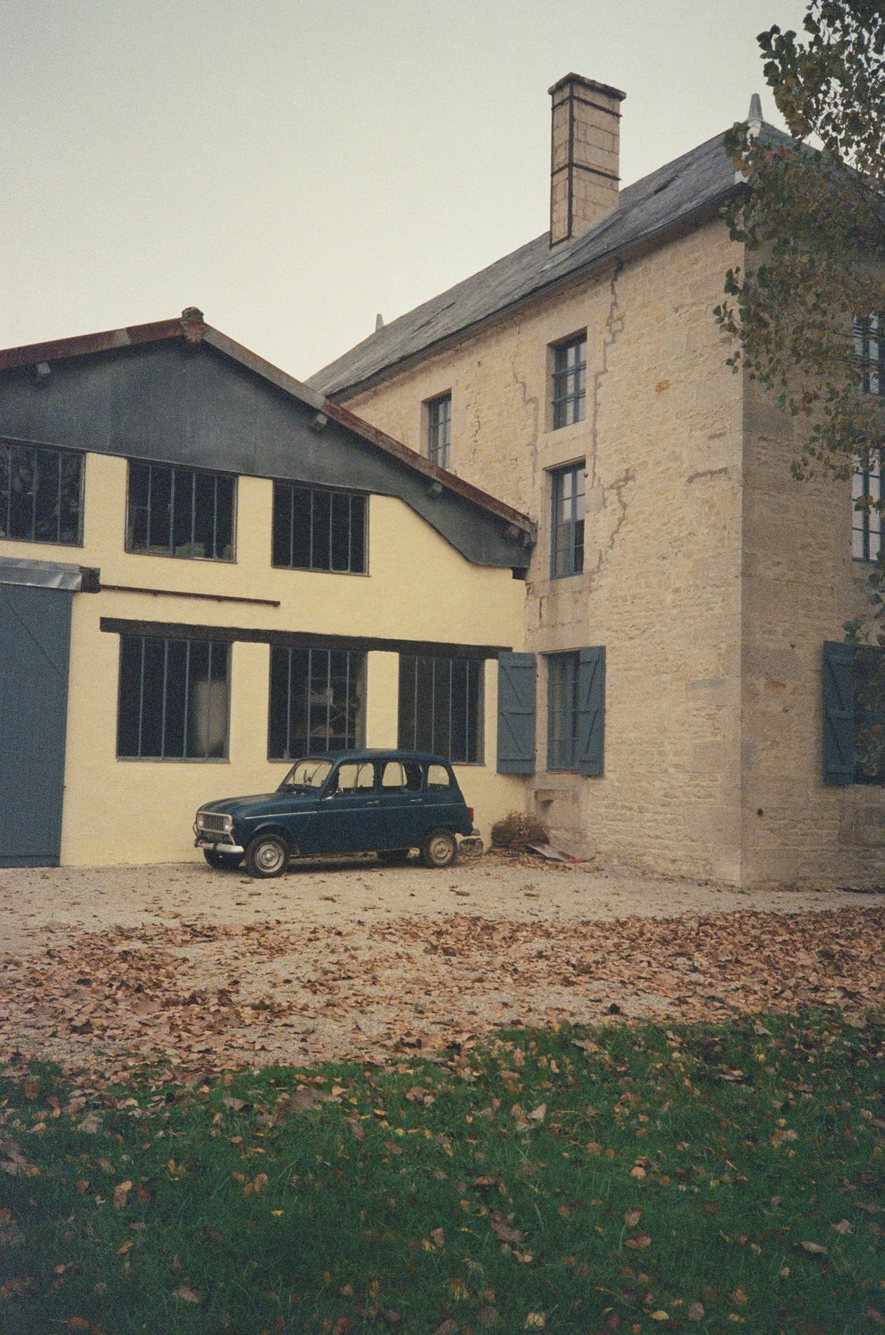
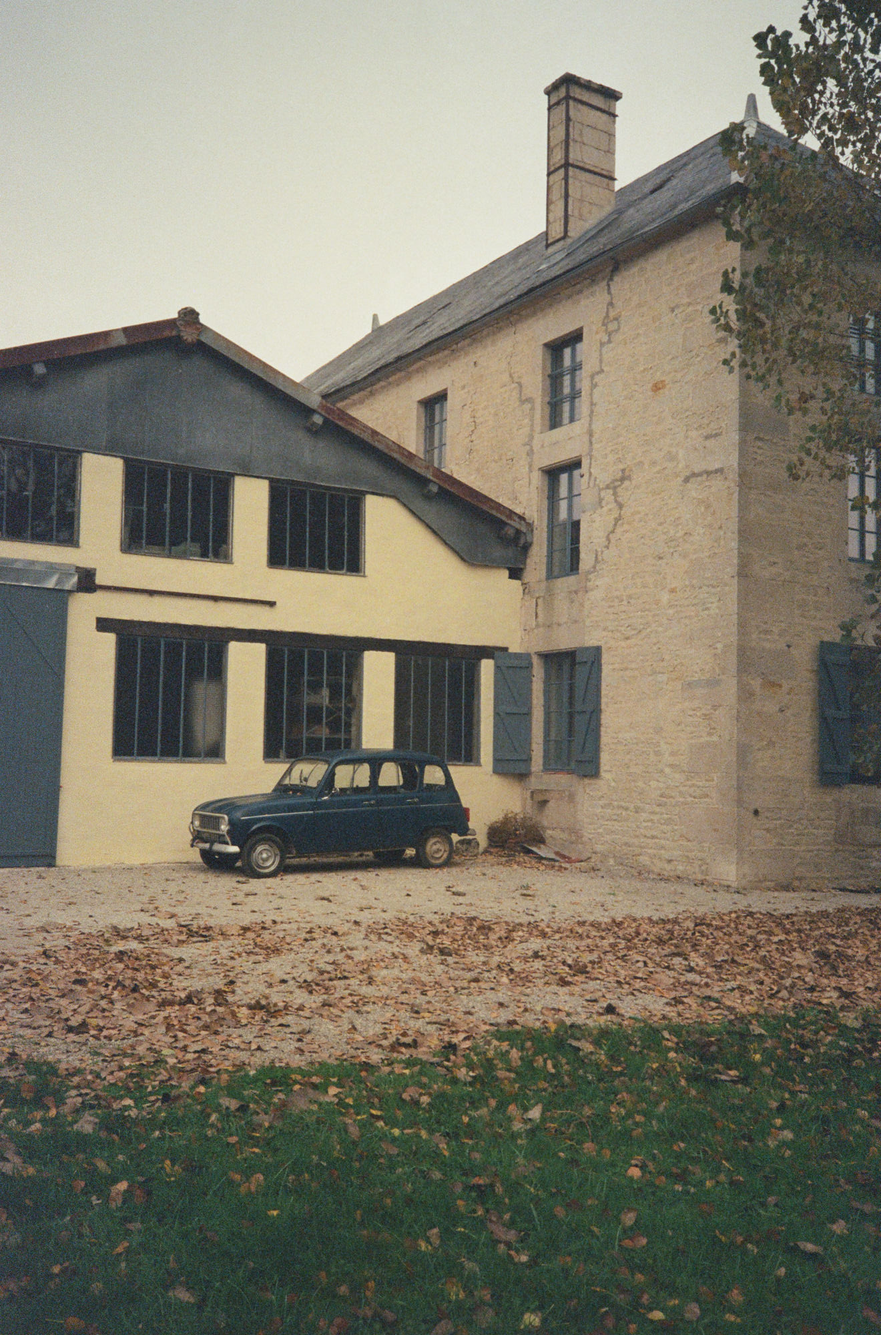
Fix photo placement, orientation and encoding quality
Four things, all visible on the page:

Portraits could end up side by side. Sparse auto-placement only moves to
a new row when the cursor moves leftward, so a col-1 photo followed by a
col-3 photo shared a row. Each figure now pins its own row via a
--photo-row custom property, which holds for any sequence.

The wire figure is a portrait frame, not a landscape one.

The rotations are now lossless. sips re-encodes the JPEG, which cost a
generation of quality on three photos; jpegtran -rotate 90 -trim works
in the DCT domain instead. Rotated files are now within a few KB of
their originals rather than 25% larger. -trim drops up to 15px off one
edge because 1326 is not a multiple of the MCU size.

WebP quality is now per-path: 90 under assets/photos, 70 everywhere
else. Grain is high-frequency noise and the first thing a lossy encoder
discards, so film scans at q70 came out smoothed. The other ~379 images
on the site are flat artwork and stay where they were.

Captions carry place and year; the descriptive text moved to a separate
alt field, which is better as alt text anyway.

diff --git a/.eleventy.js b/.eleventy.js
@@ -22,6 +22,24 @@ const DEFAULT_WIDTHS = [800, 1200, 1800];
 const BREAKOUT_WIDTHS = [800, 1200, 1800, 2800];
 const BREAKOUT_SIZES = "(min-width: 1024px) min(1400px, calc(100vw - 544px)), calc(100vw - 48px)";
 
+// WebP quality. 70 is plenty for screenshots, book covers and other flat
+// artwork, which is nearly everything on the site. It is too low for film
+// scans: grain is high-frequency noise and it is the first thing a lossy
+// encoder throws away, so photographs come out looking smoothed rather than
+// sharp. Anything under a path listed here is encoded at the higher quality
+// instead.
+const DEFAULT_WEBP_QUALITY = 70;
+const HIGH_QUALITY_WEBP_PATHS = ['assets/photos/'];
+const HIGH_WEBP_QUALITY = 90;
+
+// Pick the WebP quality for a given source path.
+function webpQualityFor(srcPath) {
+  const normalized = String(srcPath).replace(/\\/g, '/');
+  return HIGH_QUALITY_WEBP_PATHS.some(p => normalized.includes(p))
+    ? HIGH_WEBP_QUALITY
+    : DEFAULT_WEBP_QUALITY;
+}
+
 // ============================================================================
 // CACHES
 // ============================================================================
@@ -163,7 +181,7 @@ module.exports = function (eleventyConfig) {
           return `${originalName}-${width}.${format}`;
         },
         sharpWebpOptions: {
-          quality: 70
+          quality: webpQualityFor(srcPath)
         }
       });
 
@@ -197,7 +215,7 @@ module.exports = function (eleventyConfig) {
           return `${originalName}-${width}.${format}`;
         },
         sharpWebpOptions: {
-          quality: 70
+          quality: webpQualityFor(srcPath)
         }
       });
     } catch (err) {
@@ -989,7 +1007,7 @@ module.exports = function (eleventyConfig) {
     let lean = null; // which side the previous photo sat on, if either
     let lastLandscape = null; // which side the previous landscape took
 
-    return photos.map(function (photo) {
+    return photos.map(function (photo, index) {
       const isLandscape = photo.orientation === "landscape";
       let colStart;
       let colSpan;
@@ -1010,7 +1028,16 @@ module.exports = function (eleventyConfig) {
         lean = colStart === 2 ? null : colStart === 3 ? "right" : "left";
       }
 
-      return Object.assign({}, photo, { colStart: colStart, colSpan: colSpan, isLandscape: isLandscape });
+      // Every photo gets its own row. Left to auto-placement, two of them can
+      // share one: the sparse algorithm only pushes to a new row when the
+      // cursor moves *leftward*, so a col-1 photo followed by a col-3 photo
+      // sits side by side. Pinning the row keeps the stagger vertical.
+      return Object.assign({}, photo, {
+        colStart: colStart,
+        colSpan: colSpan,
+        isLandscape: isLandscape,
+        row: index + 1,
+      });
     });
   });
 

diff --git a/src/css/style.css b/src/css/style.css
@@ -479,6 +479,12 @@ span.testimonial {
     .photo-grid figure[data-span="2"] {
         grid-column-end: span 2;
     }
+
+    /* One photo per row, set by the photoPlacement filter. Without this,
+       auto-placement will pair a left-column photo with a right-column one. */
+    .photo-grid figure {
+        grid-row-start: var(--photo-row);
+    }
 }
 
 /* ==========================================================================
